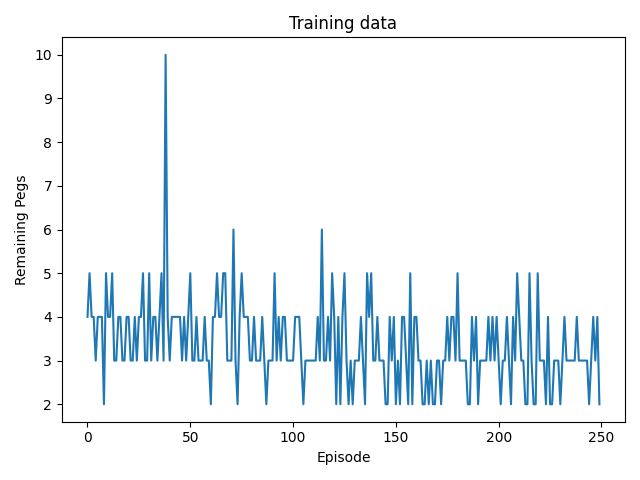
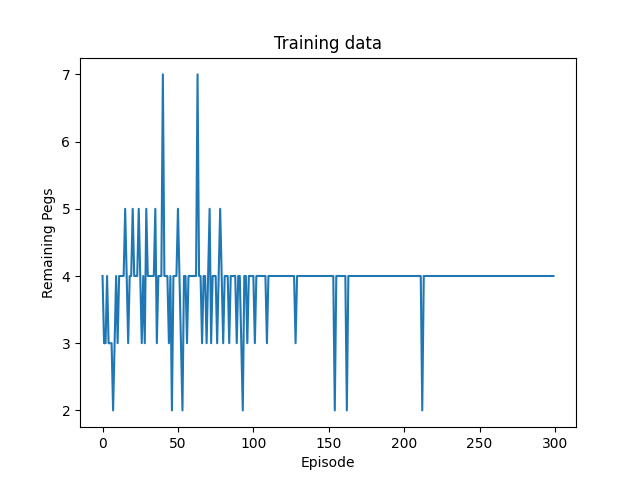
Update params 2

diff --git a/src/parameters.py b/src/parameters.py
@@ -1,8 +1,8 @@
 from data_classes import Shape
 
 # General
-EPISODES = 250
-VISUALIZE_GAMES = False
+EPISODES = 300
+VISUALIZE_GAMES = True
 FRAME_DELAY = 0.15
 
 # Simulated World
@@ -15,17 +15,18 @@ HOLES = set([
 ])
 
 # Actor
-ACTOR_LEARNING_RATE = 0.001
-ACTOR_DISCOUNT_FACTOR = 0.9
-ACTOR_TRACE_DECAY = 0.9
+ACTOR_LEARNING_RATE = 0.01
+ACTOR_DISCOUNT_FACTOR = 0.85
+ACTOR_TRACE_DECAY = 0.85
 
-ACTOR_EPSILON = 1
-ACTOR_EPSILON_DECAY = 0.995
+ACTOR_EPSILON = 1.0
+ACTOR_EPSILON_DECAY = 0.998
 
 # Critic
 CRITIC_LEARNING_RATE = 0.001
-CRITIC_DISCOUNT_FACTOR = 0.9
-CRITIC_TRACE_DECAY = 0.9
+CRITIC_DISCOUNT_FACTOR = 0.85
+CRITIC_TRACE_DECAY = 0.85
 
 USE_TABLE_CRITIC = False
-CRITIC_NN_DIMENSIONS = (15, 20, 25, 10, 1)
+INPUT_DIMENSION = SIZE ** 2 if BOARD_TYPE == Shape.Diamond else int((SIZE * (SIZE + 1)) / 2)
+CRITIC_NN_DIMENSIONS = (INPUT_DIMENSION, 20, 25, 10, 1)

diff --git a/src/parameters/2_parameters.py b/src/parameters/2_parameters.py
@@ -1,7 +1,7 @@
 from data_classes import Shape
 
 # General
-EPISODES = 150
+EPISODES = 300
 VISUALIZE_GAMES = True
 FRAME_DELAY = 0.15
 
@@ -15,12 +15,12 @@ HOLES = set([
 ])
 
 # Actor
-ACTOR_LEARNING_RATE = 0.8
+ACTOR_LEARNING_RATE = 0.01
 ACTOR_DISCOUNT_FACTOR = 0.85
 ACTOR_TRACE_DECAY = 0.85
 
 ACTOR_EPSILON = 1.0
-ACTOR_EPSILON_DECAY = 0.995
+ACTOR_EPSILON_DECAY = 0.998
 
 # Critic
 CRITIC_LEARNING_RATE = 0.001
@@ -28,5 +28,5 @@ CRITIC_DISCOUNT_FACTOR = 0.85
 CRITIC_TRACE_DECAY = 0.85
 
 USE_TABLE_CRITIC = False
-INPUT_DIMENSION = SIZE**2 if BOARD_TYPE == Shape.Diamond else (SIZE * (SIZE + 1)) / 2
-CRITIC_NN_DIMENSIONS = (INPUT_DIMENSION, 30, 1)
+INPUT_DIMENSION = SIZE ** 2 if BOARD_TYPE == Shape.Diamond else int((SIZE * (SIZE + 1)) / 2)
+CRITIC_NN_DIMENSIONS = (INPUT_DIMENSION, 20, 25, 10, 1)

diff --git a/src/visualize.py b/src/visualize.py
@@ -134,11 +134,12 @@ class Visualize:
 
         x = [i for i in range(len(epsilon_history))]
         explore_history = [y for y in epsilon_history if y > 0.5]
-        expolit_history = [y for y in epsilon_history if y <= 0.5]
+        exploit_history = [y for y in epsilon_history if y <= 0.5]
 
-        plt.plot(x[:len(explore_history)], explore_history, color='tab:cyan')
-        plt.plot(x[len(explore_history):], expolit_history, color='tab:blue')
+        plt.plot(x[:len(explore_history)], explore_history, label='Explorative', color='tab:cyan')
+        plt.plot(x[len(explore_history):], exploit_history, label='Exploitative', color='tab:blue')
 
+        plt.legend()
         plt.savefig('src/results/epsilon.png')
         plt.close()
 
